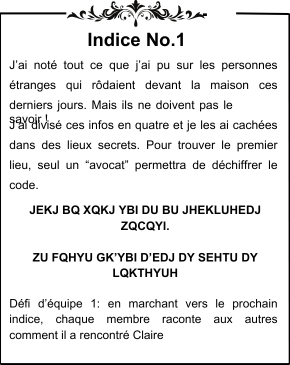
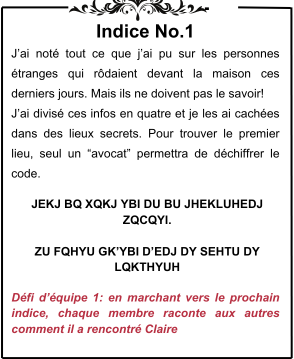
latest style update

Changed region(s): [[0.0, 0.0, 1.0, 1.0], [0.0931, 0.6741, 0.9, 0.766], [0.0931, 0.5515, 0.9, 0.6435]]

diff --git a/client/clues.js b/client/clues.js
@@ -30,18 +30,20 @@ async function displaySavedClues() {
                     `;
                 } else if (clue.imagePath.endsWith('.gif')) {
                     // For GIF files
-                    li.innerHTML = `
+                    li.innerHTML = `<h2 style="text-align: center; font-weight: 700;">Indice No 12</h2>`
+                    li.innerHTML += `
                         ${clue.additionalText ? `<p>${clue.additionalText}</p>` : ''}
                         <img src="${clue.imagePath}" alt="GIF Clue ${index + 1}">
                     `;
                 } else if (clue.imagePath.endsWith('.mp4')) {
                     // For video files
-                    li.innerHTML = `
+                    li.innerHTML = `<h2 style="text-align: center; font-weight: 700;">Indice No 5</h2>`
+                    li.innerHTML += `
                         ${clue.additionalText ? `<p>${clue.additionalText}</p>` : ''}
                         <video src="${clue.imagePath}" style="width: 90vw" controls></video>
                     `;
                     li.innerHTML += `
-                        <p>Défi d’équipe 3: en marchant vers le prochain indice, chacun indique aux 
+                        <p style="color: #b83143; font-weight: 600;>Défi d’équipe 3: en marchant vers le prochain indice, chacun indique aux 
                         autres quel sport il a déjà fait avec (ou contre) Claire, et si elle a été
                         mauvaise joueuse en cas de défaite</p>
                     `;
